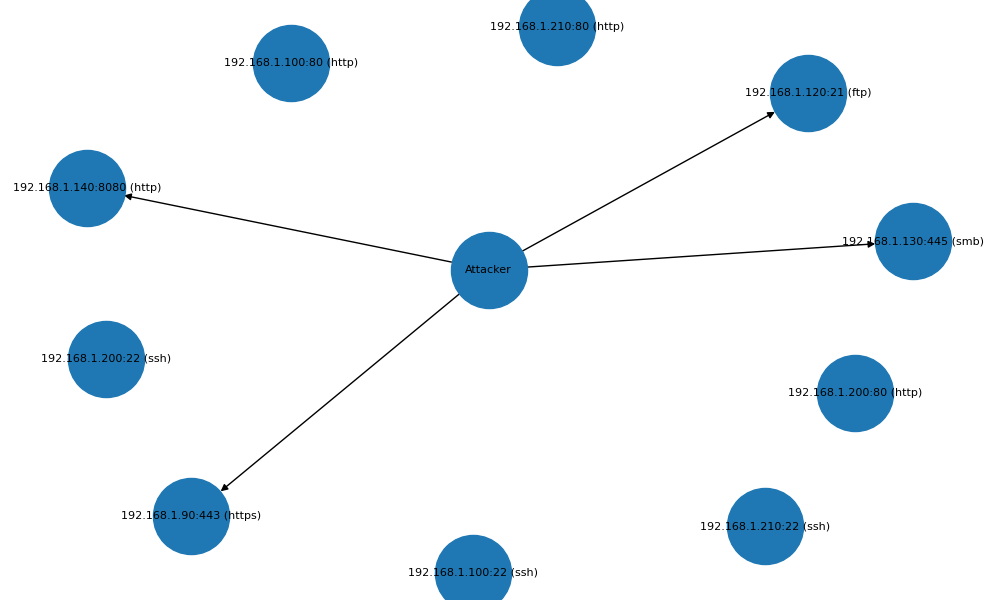
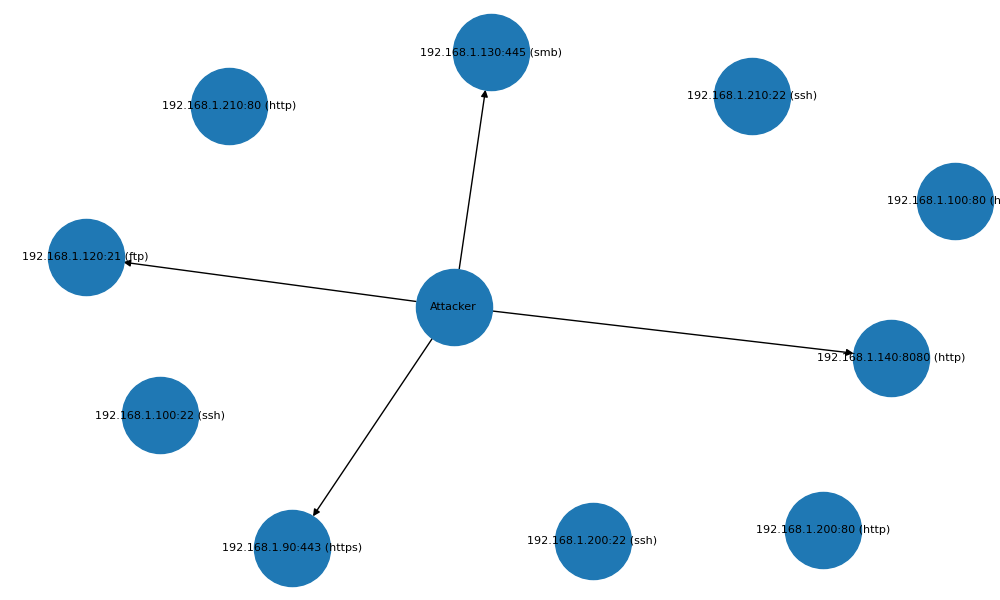
Final project submission

diff --git a/frontend/style.css b/frontend/style.css
@@ -522,3 +522,92 @@ body.dark .asset-card {
 body.dark #benchmarkBox p {
     background: #1e293b;
 }
+/* ===== FINAL COMPACT UI FIX ===== */
+
+/* page width thoda compact */
+.app {
+    width: 86%;
+    max-width: 1320px;
+}
+
+/* chart ka bada empty space kam */
+.chart-panel {
+    min-height: auto;
+    padding: 20px;
+}
+
+#riskChart {
+    max-width: 280px !important;
+    max-height: 280px !important;
+}
+
+/* graphs ki height kam */
+.graph-box img {
+    max-height: 420px !important;
+    object-fit: contain;
+    padding: 8px;
+}
+
+/* asset ranking cards compact */
+.asset-card {
+    padding: 10px 14px !important;
+    margin: 8px 0 !important;
+    border-radius: 10px !important;
+}
+
+.asset-card p {
+    display: inline-block;
+    margin: 4px 18px 4px 0 !important;
+}
+
+.asset-rank {
+    display: inline-block;
+    margin-right: 18px;
+    font-size: 17px !important;
+}
+
+/* alerts compact */
+.alert-card {
+    padding: 12px 16px !important;
+    margin: 8px 0 !important;
+}
+
+.alert-card p {
+    display: inline-block;
+    margin: 5px 20px 5px 0 !important;
+}
+
+/* vulnerability cards compact */
+.vuln-item {
+    padding: 14px 16px !important;
+    margin: 10px 0 !important;
+}
+
+.vuln-item p {
+    display: inline-block;
+    margin: 6px 22px 6px 0 !important;
+}
+
+/* CVE / MITRE / remediation compact */
+.cve-card,
+.mitre-card,
+.remediation-card {
+    padding: 14px 16px !important;
+    margin: 10px 0 !important;
+}
+
+/* panels less tall */
+.panel {
+    padding: 20px !important;
+    margin-bottom: 18px !important;
+}
+
+/* pre output less tall */
+pre {
+    min-height: 80px !important;
+}
+
+/* headings slightly smaller */
+.panel h2 {
+    font-size: 22px;
+}